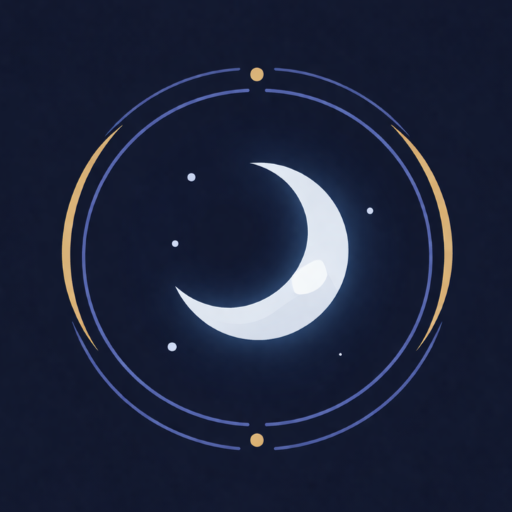
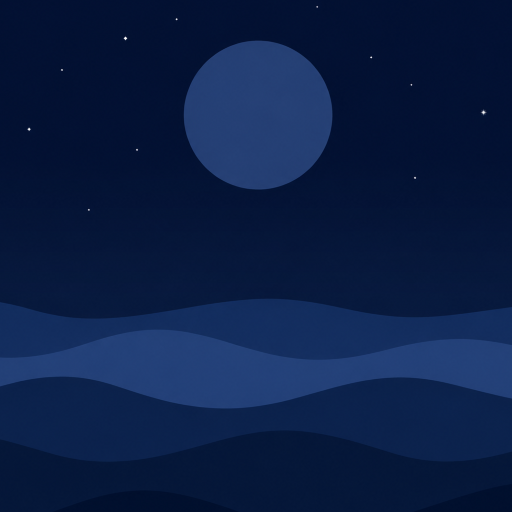
Add files via upload

diff --git a/index.html b/index.html
@@ -105,12 +105,12 @@ body {
   }
 
   /* ============ 背景：波 ============ */
-  .waves {
+.waves {
     position: fixed;
     bottom: 0;
     left: 0;
     width: 100%;
-    height: 38vh;
+    height: calc(38vh + env(safe-area-inset-bottom));
     pointer-events: none;
     z-index: 1;
     overflow: hidden;